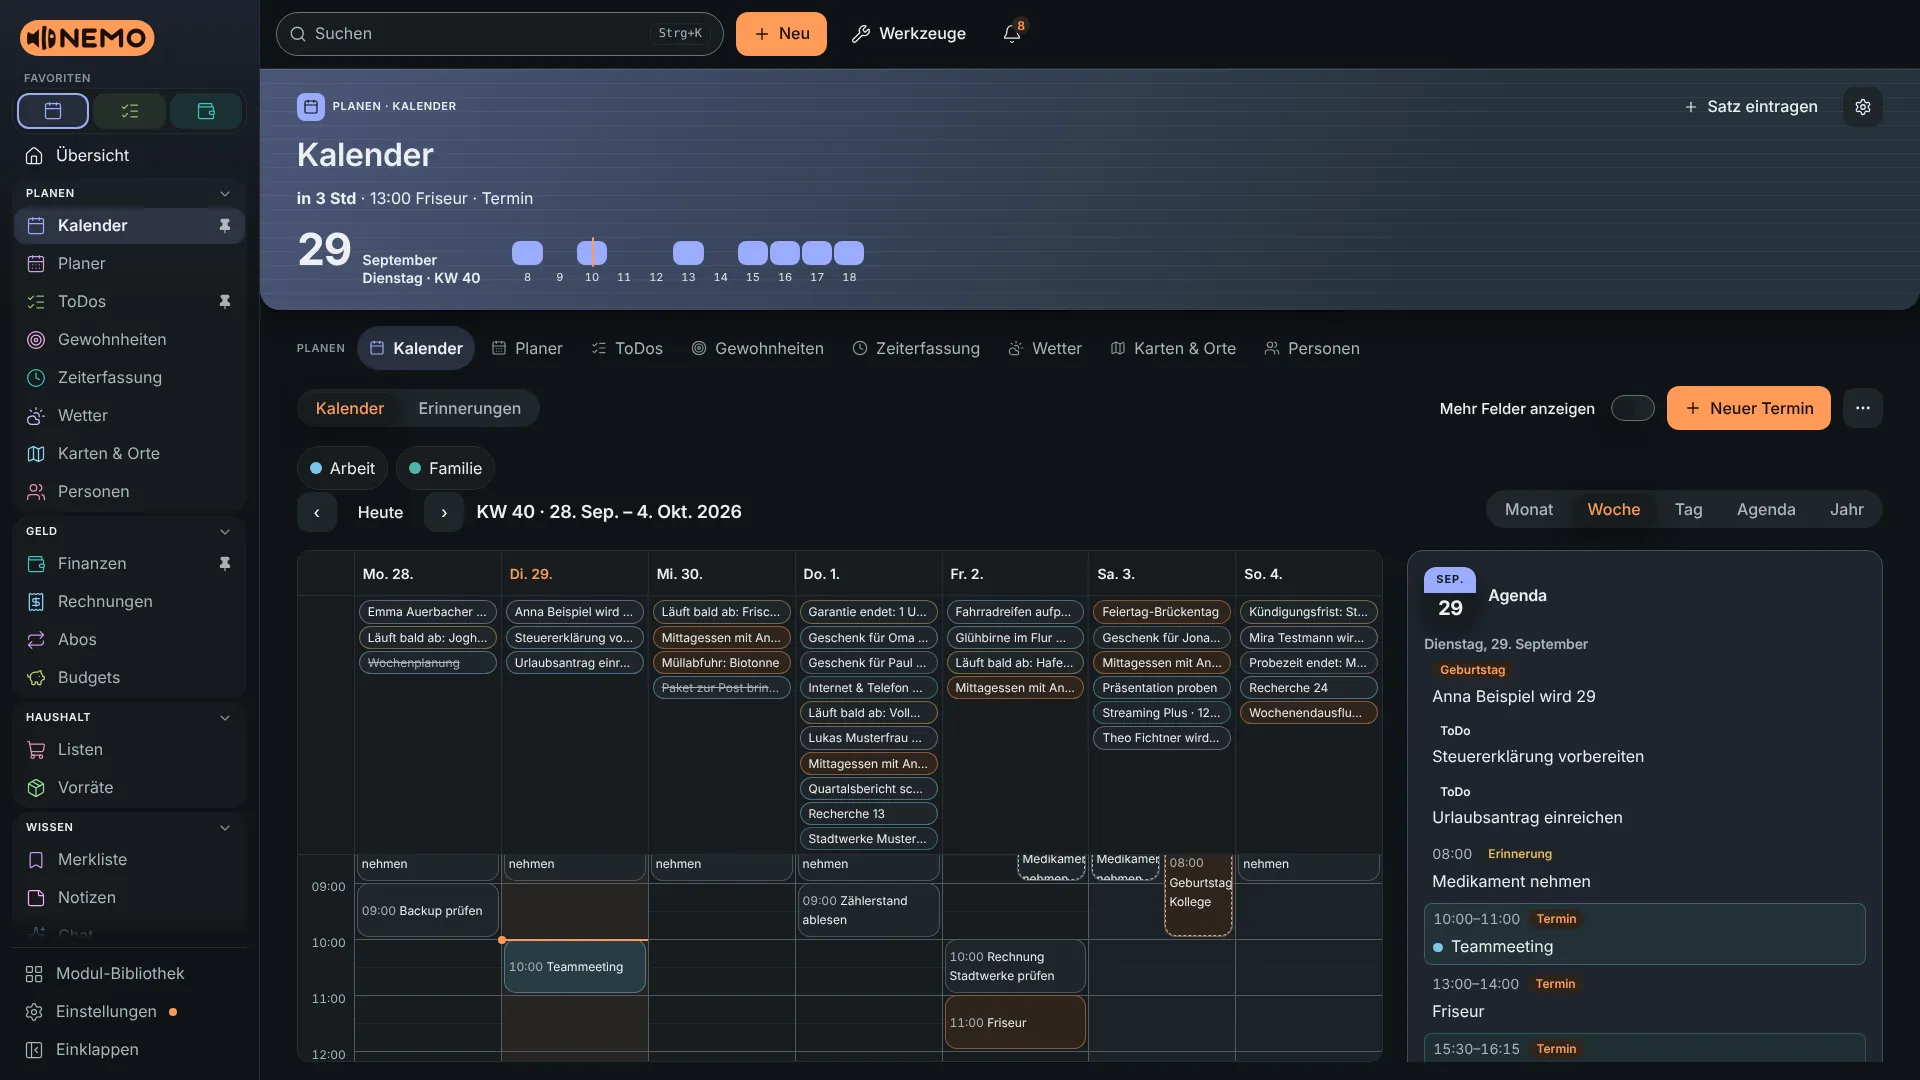
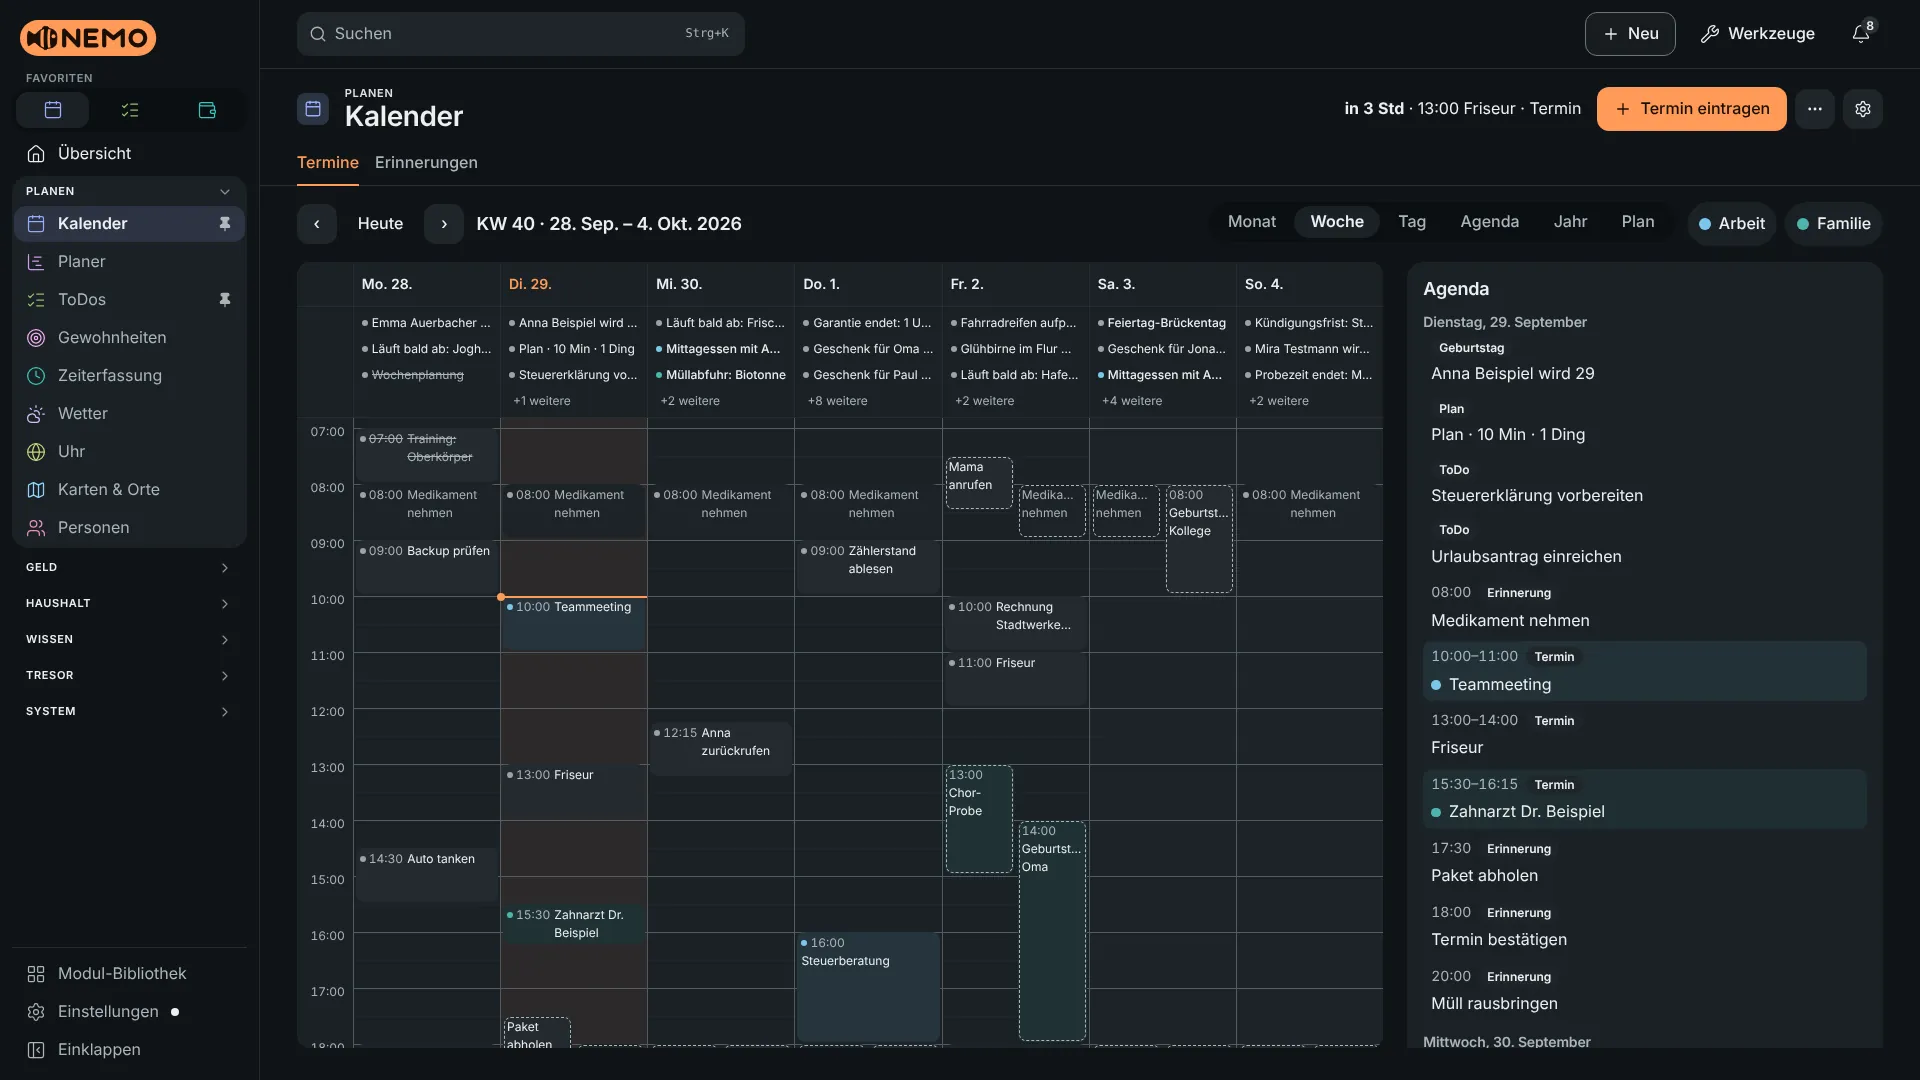
docs(readme): retake README pictures and social preview for Identity 4.0
Shot from the seeded Dev-Preview build (scale medium, invented data only)
with `npm run app:screenshots -- --readme` and `npm run gen:social`.
The overview shows the default view "Ruhig". Alt texts in README.md and
README.de.md describe what the new pictures show.

Claude-Session: https://claude.ai/code/session_019RrxT4PoHkbnKnZmCPNF1A

diff --git a/README.de.md b/README.de.md
@@ -29,7 +29,7 @@
 <p align="center">
   <picture>
     <source media="(prefers-color-scheme: dark)" srcset="docs/assets/screenshots/overview-desktop-dark.webp">
-    <img src="docs/assets/screenshots/overview-desktop-light.webp" alt="Nemo-Übersicht auf dem Desktop mit erfundenen Beispieldaten: eine Seitenleiste mit Favoriten und Bereichen, die Leiste „Jetzt wichtig“ mit sechs Karten, heute, morgen und diese Woche in drei Spalten und eine vorgeschlagene Aufgabe zum Anfangen" width="900">
+    <img src="docs/assets/screenshots/overview-desktop-light.webp" alt="Nemo-Übersicht auf dem Desktop mit erfundenen Beispieldaten, in der ruhigen Ansicht „Ruhig“: eine Seitenleiste mit Favoriten und zugeklappten Bereichen, die Leiste „Jetzt wichtig“ mit drei Karten und einer Zeile, was warten kann, und eine Karte „Heute“ mit dem nächsten Termin, den Terminen von heute und einer vorgeschlagenen Aufgabe zum Anfangen" width="900">
   </picture>
 </p>
 
@@ -113,14 +113,14 @@ Alle Bilder zeigen erfundene Beispieldaten in der deutschen Oberfläche; die App
     <td width="50%">
       <picture>
         <source media="(prefers-color-scheme: dark)" srcset="docs/assets/screenshots/calendar-desktop-dark.webp">
-        <img src="docs/assets/screenshots/calendar-desktop-light.webp" alt="Kalender in der Wochenansicht mit farbigen Terminen aus mehreren Modulen und einer Agenda für den gewählten Tag, unter einem blauen Kalenderkopf">
+        <img src="docs/assets/screenshots/calendar-desktop-light.webp" alt="Kalender in der Wochenansicht mit Terminen aus mehreren Modulen, einem Stundenraster mit markierter Spalte für heute und rechts einer Agenda für den gewählten Tag">
       </picture>
       <br><sub>Kalender: Wochenansicht mit der Agenda des Tages</sub>
     </td>
     <td width="50%">
       <picture>
         <source media="(prefers-color-scheme: dark)" srcset="docs/assets/screenshots/finance-desktop-dark.webp">
-        <img src="docs/assets/screenshots/finance-desktop-light.webp" alt="Finanzübersicht mit zwei Kontokarten, Kontostand, Einnahmen, Ausgaben und Ergebnis des Monats, einem Liniendiagramm des Kontostands und den letzten Buchungen">
+        <img src="docs/assets/screenshots/finance-desktop-light.webp" alt="Finanzübersicht für September mit dem verfügbaren Betrag im Kopf, Einnahmen, Ausgaben und Ergebnis des Monats, einem Liniendiagramm des Kontostands, einem Ringdiagramm, wohin das Geld ging, und rechts den letzten Buchungen">
       </picture>
       <br><sub>Finanzen: Monatsübersicht mit Kontostand und Buchungen</sub>
     </td>
@@ -129,14 +129,14 @@ Alle Bilder zeigen erfundene Beispieldaten in der deutschen Oberfläche; die App
     <td width="50%">
       <picture>
         <source media="(prefers-color-scheme: dark)" srcset="docs/assets/screenshots/tools-desktop-dark.webp">
-        <img src="docs/assets/screenshots/tools-desktop-light.webp" alt="Der Werkzeugkasten über der Übersicht geöffnet: links eine Liste der Werkzeuge, rechts der Rechner mit Zahlenblock und Reitern für Standard, Wissenschaftlich und mehr">
+        <img src="docs/assets/screenshots/tools-desktop-light.webp" alt="Der Werkzeugkasten über der Übersicht geöffnet: links eine Liste der Werkzeuge, rechts der Rechner mit Zahlenblock und Reitern für Standard, Wissenschaftlich, Programmierer und mehr">
       </picture>
       <br><sub>Werkzeugkasten: der Rechner, eines von vielen kleinen Werkzeugen</sub>
     </td>
     <td width="50%">
       <picture>
         <source media="(prefers-color-scheme: dark)" srcset="docs/assets/screenshots/settings-desktop-dark.webp">
-        <img src="docs/assets/screenshots/settings-desktop-light.webp" alt="Einstellungsübersicht mit sechs Statuskacheln für Sicherheit, Sync, Backup, Updates, KI und Speicher, Schnellschaltern für Farbschema, Dichte und Lesehilfe und einer Liste der Kategorien">
+        <img src="docs/assets/screenshots/settings-desktop-light.webp" alt="Einstellungsübersicht: ein Statuskopf mit Sicherheit, Gerätestatus und KI, Schnellschalter für Farbschema, Dichte, Lesehilfe, Profil und Ruhe und links die Liste der Kategorien">
       </picture>
       <br><sub>Einstellungen: der Status auf einen Blick, dann die Kategorien</sub>
     </td>
@@ -146,15 +146,15 @@ Alle Bilder zeigen erfundene Beispieldaten in der deutschen Oberfläche; die App
 <p align="center">
   <picture>
     <source media="(prefers-color-scheme: dark)" srcset="docs/assets/screenshots/overview-phone-dark.webp">
-    <img src="docs/assets/screenshots/overview-phone-light.webp" alt="Die Übersicht auf dem Handy: die Leiste „Jetzt wichtig“ als zwei Spalten mit Karten, darunter die Termine von heute, unten eine Navigationsleiste" width="220">
+    <img src="docs/assets/screenshots/overview-phone-light.webp" alt="Die Übersicht auf dem Handy in der ruhigen Ansicht: die Leiste „Jetzt wichtig“ mit drei Karten und einer Zeile, was warten kann, darunter die Karte „Heute“ mit den Terminen von heute, unten eine Navigationsleiste" width="220">
   </picture>
   <picture>
     <source media="(prefers-color-scheme: dark)" srcset="docs/assets/screenshots/calendar-phone-dark.webp">
-    <img src="docs/assets/screenshots/calendar-phone-light.webp" alt="Der Kalender auf dem Handy: ein Kopf mit dem heutigen Datum und einem Streifen der belegten Stunden, Reiter, ein Umschalter für Monat, Woche, Tag, Agenda und Jahr und der erste Tag der Woche mit seinen Terminen" width="220">
+    <img src="docs/assets/screenshots/calendar-phone-light.webp" alt="Der Kalender auf dem Handy: der Modulkopf mit Reitern für die Planen-Module, ein Wochenumschalter, ein Umschalter für Monat, Woche, Tag, Agenda und Jahr und die Termine der Woche als Liste" width="220">
   </picture>
   <picture>
     <source media="(prefers-color-scheme: dark)" srcset="docs/assets/screenshots/tools-phone-dark.webp">
-    <img src="docs/assets/screenshots/tools-phone-light.webp" alt="Der Rechner auf dem Handy, im Vollbild, mit Zahlenblock und Verlauf" width="220">
+    <img src="docs/assets/screenshots/tools-phone-light.webp" alt="Der Rechner auf dem Handy, im Vollbild, mit Reitern, Zahlenblock und leerem Verlauf" width="220">
   </picture>
 </p>
 

diff --git a/README.md b/README.md
@@ -29,7 +29,7 @@
 <p align="center">
   <picture>
     <source media="(prefers-color-scheme: dark)" srcset="docs/assets/screenshots/overview-desktop-dark.webp">
-    <img src="docs/assets/screenshots/overview-desktop-light.webp" alt="Nemo overview on a desktop with made-up sample data: a sidebar with favourites and areas, a strip “Important now” with six cards, today, tomorrow and this week in three columns, and one suggested task to start with" width="900">
+    <img src="docs/assets/screenshots/overview-desktop-light.webp" alt="Nemo overview on a desktop with made-up sample data, in the calm view “Ruhig”: a sidebar with favourites and folded areas, a strip “Important now” with three cards and a line of what can wait, and one card “Today” with the next appointment, today’s events and one suggested task to start with" width="900">
   </picture>
 </p>
 
@@ -113,14 +113,14 @@ All pictures show made-up sample data in the German interface; the app also spea
     <td width="50%">
       <picture>
         <source media="(prefers-color-scheme: dark)" srcset="docs/assets/screenshots/calendar-desktop-dark.webp">
-        <img src="docs/assets/screenshots/calendar-desktop-light.webp" alt="Calendar in week view with colour-coded events from several modules and an agenda panel for the selected day, under a blue calendar header">
+        <img src="docs/assets/screenshots/calendar-desktop-light.webp" alt="Calendar in week view with events from several modules, a busy-hours grid with today’s column marked, and an agenda panel for the selected day on the right">
       </picture>
       <br><sub>Calendar: week view with the day’s agenda</sub>
     </td>
     <td width="50%">
       <picture>
         <source media="(prefers-color-scheme: dark)" srcset="docs/assets/screenshots/finance-desktop-dark.webp">
-        <img src="docs/assets/screenshots/finance-desktop-light.webp" alt="Finances overview with two account cards, balance, income, expenses and result for the month, a line chart of the balance and the latest transactions">
+        <img src="docs/assets/screenshots/finance-desktop-light.webp" alt="Finances overview for September with the available balance in the head, income, expenses and result for the month, a line chart of the balance, a donut chart of where the money went and the latest transactions on the right">
       </picture>
       <br><sub>Finances: month overview with balance and transactions</sub>
     </td>
@@ -129,14 +129,14 @@ All pictures show made-up sample data in the German interface; the app also spea
     <td width="50%">
       <picture>
         <source media="(prefers-color-scheme: dark)" srcset="docs/assets/screenshots/tools-desktop-dark.webp">
-        <img src="docs/assets/screenshots/tools-desktop-light.webp" alt="The toolbox opened over the overview: a list of tools on the left, the calculator with a number pad and tabs for standard, scientific and more on the right">
+        <img src="docs/assets/screenshots/tools-desktop-light.webp" alt="The toolbox opened over the overview: a list of tools on the left, the calculator with a number pad and tabs for standard, scientific, programmer and more on the right">
       </picture>
       <br><sub>Toolbox: the calculator, one of many small tools</sub>
     </td>
     <td width="50%">
       <picture>
         <source media="(prefers-color-scheme: dark)" srcset="docs/assets/screenshots/settings-desktop-dark.webp">
-        <img src="docs/assets/screenshots/settings-desktop-light.webp" alt="Settings overview with six status tiles for security, sync, backup, updates, AI and storage, quick switches for colour scheme, density and reading aid, and a list of categories">
+        <img src="docs/assets/screenshots/settings-desktop-light.webp" alt="Settings overview: a status head with security, device status and AI, quick switches for colour scheme, density, reading aid, profile and quiet time, and the list of categories on the left">
       </picture>
       <br><sub>Settings: status at a glance, then the categories</sub>
     </td>
@@ -146,15 +146,15 @@ All pictures show made-up sample data in the German interface; the app also spea
 <p align="center">
   <picture>
     <source media="(prefers-color-scheme: dark)" srcset="docs/assets/screenshots/overview-phone-dark.webp">
-    <img src="docs/assets/screenshots/overview-phone-light.webp" alt="The overview on a phone: the strip “Important now” as two columns of cards, then today’s events, with a navigation bar at the bottom" width="220">
+    <img src="docs/assets/screenshots/overview-phone-light.webp" alt="The overview on a phone in the calm view: the strip “Important now” with three cards and a line of what can wait, then the card “Today” with today’s events, with a navigation bar at the bottom" width="220">
   </picture>
   <picture>
     <source media="(prefers-color-scheme: dark)" srcset="docs/assets/screenshots/calendar-phone-dark.webp">
-    <img src="docs/assets/screenshots/calendar-phone-light.webp" alt="The calendar on a phone: a header with today’s date and a strip of busy hours, tabs, a view switch for month, week, day, agenda and year, and the first day of the week with its events" width="220">
+    <img src="docs/assets/screenshots/calendar-phone-light.webp" alt="The calendar on a phone: the module head with tabs for the planning modules, a week switch, a view switch for month, week, day, agenda and year, and the events of the week as a list" width="220">
   </picture>
   <picture>
     <source media="(prefers-color-scheme: dark)" srcset="docs/assets/screenshots/tools-phone-dark.webp">
-    <img src="docs/assets/screenshots/tools-phone-light.webp" alt="The calculator on a phone, full screen, with a number pad and a history" width="220">
+    <img src="docs/assets/screenshots/tools-phone-light.webp" alt="The calculator on a phone, full screen, with tabs, a number pad and an empty history" width="220">
   </picture>
 </p>
 
